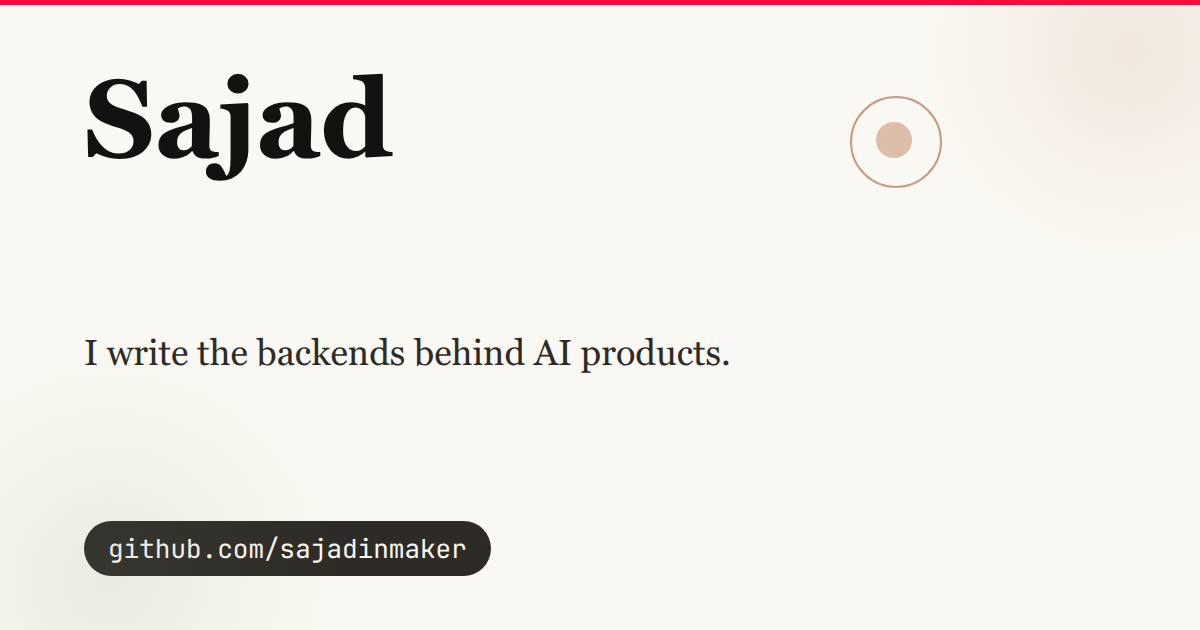
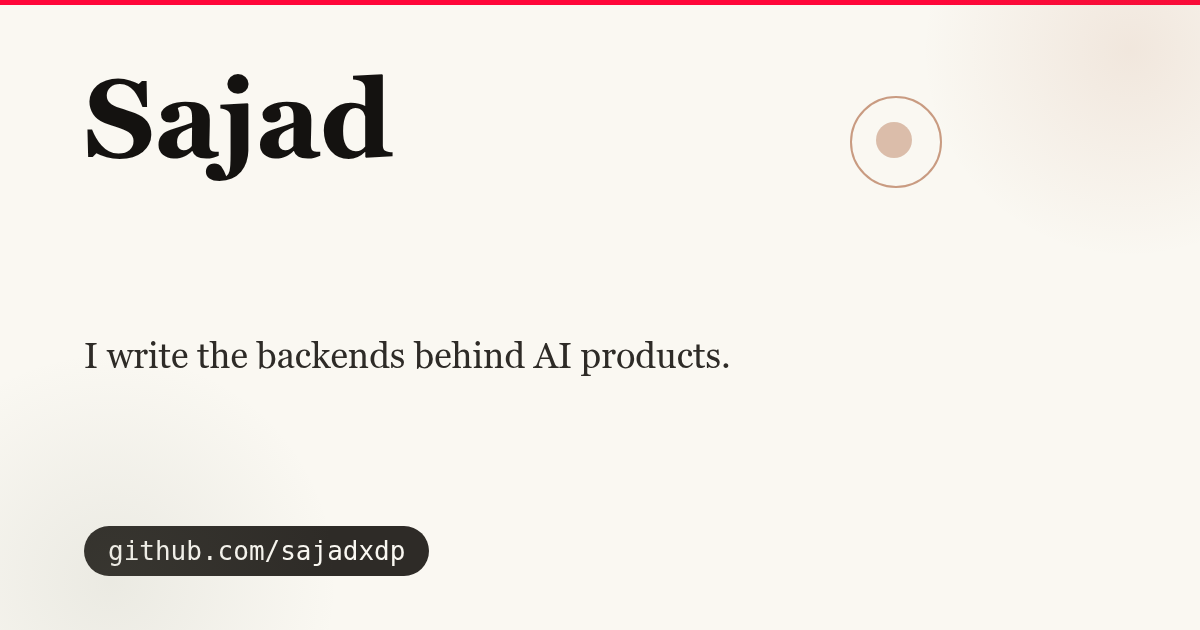
rename: github user sajadxdp - domains, links, og card

Changed region(s): [[0.0617, 0.8143, 0.4317, 0.9349], [0.0617, 0.5429, 0.6167, 0.6032], [0.2158, 0.1508, 0.2467, 0.181]]

diff --git a/index.html b/index.html
@@ -9,14 +9,14 @@
 <title>Sajad · Software Engineer</title>
 <meta name="description" content="Sajad writes the backends behind AI products. Projects, notes on engineering and applied AI, and every way to reach him.">
 <meta name="author" content="Abdulla Sajad">
-<link rel="canonical" href="https://sajadinmaker.github.io/">
+<link rel="canonical" href="https://sajadxdp.github.io/">
 <link rel="icon" href="./favicon.svg" type="image/svg+xml">
 <link rel="stylesheet" href="./style.css">
 <meta property="og:type" content="website">
 <meta property="og:site_name" content="Sajad">
 <meta property="og:title" content="Sajad · Software Engineer">
 <meta property="og:description" content="Sajad writes the backends behind AI products. Projects, notes on engineering and applied AI, and every way to reach him.">
-<meta property="og:image" content="https://sajadinmaker.github.io/og.png">
+<meta property="og:image" content="https://sajadxdp.github.io/og.png">
 <meta property="og:image:width" content="1200">
 <meta property="og:image:height" content="630">
 <meta property="og:image:alt" content="Sajad. I write the backends behind AI products.">
@@ -40,7 +40,7 @@
   <h1 class="hero">Hi, I'm Sajad.</h1>
   <p><strong>I write the backends behind AI products.</strong><br>
   The model gets the applause; I take care of what it stands on: Python, FastAPI, PostgreSQL, Redis, and the tests that keep them working. On the side I work on security and small open-source tools.</p>
-  <p><a href="https://github.com/sajadinmaker">GitHub</a> · <a href="https://www.linkedin.com/in/abdullasajad">LinkedIn</a> · <a href="mailto:abdullasajad01@gmail.com">Email</a></p>
+  <p><a href="https://github.com/sajadxdp">GitHub</a> · <a href="https://www.linkedin.com/in/abdullasajad">LinkedIn</a> · <a href="mailto:abdullasajad01@gmail.com">Email</a></p>
 
   <pre class="stack" aria-hidden="true">┌───────────────┐
 │   the model   │
@@ -57,15 +57,15 @@
   <h2>Projects</h2>
   <ul class="plain numbered">
     <li><a href="./projects/lexora.html">Lexora</a> asks questions over your own documents.
-      <span class="meta"><a href="https://github.com/sajadinmaker/lexora-ai">Source</a></span></li>
+      <span class="meta"><a href="https://github.com/sajadxdp/lexora-ai">Source</a></span></li>
     <li><a href="./projects/esencelab.html">EsenceLab</a> is an AI hiring platform.
-      <span class="meta"><a href="https://github.com/sajadinmaker/esencelab">Source</a></span></li>
-    <li><a href="https://github.com/sajadinmaker/vpnbox">vpnbox</a> is a free Linux VPN built on the volunteer-run VPN Gate relays. No accounts, no keys, one stdlib-only Python file.
-      <span class="meta">v1.0.0-beta4 · <a href="https://github.com/sajadinmaker/vpnbox">Source</a></span></li>
-    <li><a href="https://github.com/sajadinmaker/hookflow">HookFlow</a> delivers webhooks that never get lost: persist first, retry, and verify every delivery.
-      <span class="meta"><a href="https://github.com/sajadinmaker/hookflow">Source</a></span></li>
-    <li><a href="https://github.com/sajadinmaker/neudb">neuDB</a> is a tiny database in plain Python.
-      <span class="meta"><a href="https://github.com/sajadinmaker/neudb">Source</a></span></li>
+      <span class="meta"><a href="https://github.com/sajadxdp/esencelab">Source</a></span></li>
+    <li><a href="https://github.com/sajadxdp/vpnbox">vpnbox</a> is a free Linux VPN built on the volunteer-run VPN Gate relays. No accounts, no keys, one stdlib-only Python file.
+      <span class="meta">v1.0.0-beta4 · <a href="https://github.com/sajadxdp/vpnbox">Source</a></span></li>
+    <li><a href="https://github.com/sajadxdp/hookflow">HookFlow</a> delivers webhooks that never get lost: persist first, retry, and verify every delivery.
+      <span class="meta"><a href="https://github.com/sajadxdp/hookflow">Source</a></span></li>
+    <li><a href="https://github.com/sajadxdp/neudb">neuDB</a> is a tiny database in plain Python.
+      <span class="meta"><a href="https://github.com/sajadxdp/neudb">Source</a></span></li>
   </ul>
 
   <h2>Writings</h2>
@@ -78,7 +78,7 @@
 </main>
 
 <footer>
-  <p>© <span id="year">2026</span> sajad · <a href="https://github.com/sajadinmaker">github</a> · <a href="https://www.linkedin.com/in/abdullasajad">linkedin</a></p>
+  <p>© <span id="year">2026</span> sajad · <a href="https://github.com/sajadxdp">github</a> · <a href="https://www.linkedin.com/in/abdullasajad">linkedin</a></p>
 </footer>
 
 <script src="./script.js" defer></script>

diff --git a/projects.html b/projects.html
@@ -8,12 +8,12 @@
 <title>Projects · Sajad</title>
 <meta name="description" content="Projects: Lexora, EsenceLab, vpnbox, HookFlow, neuDB. Backend systems and applied AI.">
 <meta name="author" content="Abdulla Sajad">
-<link rel="canonical" href="https://sajadinmaker.github.io/projects.html">
+<link rel="canonical" href="https://sajadxdp.github.io/projects.html">
 <meta property="og:type" content="website">
 <meta property="og:site_name" content="Sajad">
 <meta property="og:title" content="Projects · Sajad">
 <meta property="og:description" content="Things I've built recently, with write-ups and source code.">
-<meta property="og:image" content="https://sajadinmaker.github.io/og.png">
+<meta property="og:image" content="https://sajadxdp.github.io/og.png">
 <meta property="og:image:width" content="1200">
 <meta property="og:image:height" content="630">
 <meta property="og:image:alt" content="Sajad. I write the backends behind AI products.">
@@ -50,7 +50,7 @@
   <li class="chip">Redis</li>
   <li class="chip">35 tests</li>
 </ul>
-<p><a href="./projects/lexora.html">Case study</a> · <a href="https://github.com/sajadinmaker/lexora-ai">Source</a></p>
+<p><a href="./projects/lexora.html">Case study</a> · <a href="https://github.com/sajadxdp/lexora-ai">Source</a></p>
 </article>
   <article>
   <h3><a href="./projects/esencelab.html">02 · EsenceLab</a></h3>
@@ -60,20 +60,20 @@
   <li class="chip">Express</li>
   <li class="chip">PostgreSQL</li>
 </ul>
-<p><a href="./projects/esencelab.html">Write-up</a> · <a href="https://github.com/sajadinmaker/esencelab">Source</a></p>
+<p><a href="./projects/esencelab.html">Write-up</a> · <a href="https://github.com/sajadxdp/esencelab">Source</a></p>
 </article>
   <article>
-  <h3><a href="https://github.com/sajadinmaker/vpnbox">03 · vpnbox</a></h3>
+  <h3><a href="https://github.com/sajadxdp/vpnbox">03 · vpnbox</a></h3>
 <p>A free VPN for Linux, no accounts and no keys. It watches the volunteer-run VPN Gate relays and ranks what's actually alive by ping and speed. You can narrow the list by country or city. It connects you through OpenVPN with a full tunnel and the DNS handled, all in one stdlib-only Python file.</p>
 <ul class="chips">
   <li class="chip">Python 3.8+ (stdlib only)</li>
   <li class="chip">OpenVPN</li>
   <li class="chip">v1.0.0-beta4</li>
 </ul>
-<p><a href="https://github.com/sajadinmaker/vpnbox">Source</a></p>
+<p><a href="https://github.com/sajadxdp/vpnbox">Source</a></p>
 </article>
   <article>
-  <h3><a href="https://github.com/sajadinmaker/hookflow">04 · HookFlow</a></h3>
+  <h3><a href="https://github.com/sajadxdp/hookflow">04 · HookFlow</a></h3>
 <p>Webhooks that never get lost. The system accepts first, persists, then delivers with atomic claims, leases, and dead-letter recovery. Concurrent workers, zero double delivery, verified by test.</p>
 <ul class="chips">
   <li class="chip">Python</li>
@@ -84,22 +84,22 @@
   <li class="chip">~93% coverage</li>
   <li class="chip">5 CI jobs</li>
 </ul>
-<p><a href="https://github.com/sajadinmaker/hookflow">Source</a></p>
+<p><a href="https://github.com/sajadxdp/hookflow">Source</a></p>
 </article>
   <article>
-  <h3><a href="https://github.com/sajadinmaker/neudb">05 · neuDB</a></h3>
+  <h3><a href="https://github.com/sajadxdp/neudb">05 · neuDB</a></h3>
 <p>A tiny database in plain Python. Writes are crash-atomic, files are human-readable, and the scope is stated plainly rather than sold.</p>
 <ul class="chips">
   <li class="chip">Python</li>
   <li class="chip">32 tests</li>
   <li class="chip">CI</li>
 </ul>
-<p><a href="https://github.com/sajadinmaker/neudb">Source</a> · <a href="https://github.com/sajadinmaker/neudb/blob/main/CHANGELOG.md">Changelog</a></p>
+<p><a href="https://github.com/sajadxdp/neudb">Source</a> · <a href="https://github.com/sajadxdp/neudb/blob/main/CHANGELOG.md">Changelog</a></p>
 </article>
   </main>
 
   <footer>
-  <p>© <span id="year">2026</span> sajad · <a href="https://github.com/sajadinmaker">github</a> · <a href="https://www.linkedin.com/in/abdullasajad">linkedin</a></p>
+  <p>© <span id="year">2026</span> sajad · <a href="https://github.com/sajadxdp">github</a> · <a href="https://www.linkedin.com/in/abdullasajad">linkedin</a></p>
 </footer>
 
 <script src="./script.js" defer></script>

diff --git a/about.html b/about.html
@@ -8,12 +8,12 @@
 <title>About · Sajad</title>
 <meta name="description" content="Sajad writes the backends behind AI products: Python, FastAPI, PostgreSQL, Redis, queues, and tests. Security and small tools on the side.">
 <meta name="author" content="Abdulla Sajad">
-<link rel="canonical" href="https://sajadinmaker.github.io/about.html">
+<link rel="canonical" href="https://sajadxdp.github.io/about.html">
 <meta property="og:type" content="website">
 <meta property="og:site_name" content="Sajad">
 <meta property="og:title" content="About · Sajad">
 <meta property="og:description" content="Sajad writes the backends behind AI products: Python, FastAPI, PostgreSQL, Redis, queues, and tests. Security and small tools on the side.">
-<meta property="og:image" content="https://sajadinmaker.github.io/og.png">
+<meta property="og:image" content="https://sajadxdp.github.io/og.png">
 <meta property="og:image:width" content="1200">
 <meta property="og:image:height" content="630">
 <meta property="og:image:alt" content="Sajad. I write the backends behind AI products.">
@@ -46,16 +46,16 @@
 <p>I like boring internals and clean interfaces. A repo should tell you what it does and then get out of the way; if it needs a sales pitch, it isn't finished.</p>
 
 <h2>On the side</h2>
-<p>I study security one topic at a time, on both the attack and defense sides, and what I learn tends to leave as a tool rather than a note. <a href="https://github.com/sajadinmaker/vpnbox">vpnbox</a>, a free Linux VPN built into a single stdlib-only Python file, started exactly that way.</p>
+<p>I study security one topic at a time, on both the attack and defense sides, and what I learn tends to leave as a tool rather than a note. <a href="https://github.com/sajadxdp/vpnbox">vpnbox</a>, a free Linux VPN built into a single stdlib-only Python file, started exactly that way.</p>
 
 <h2>Right now</h2>
-<p>The <a href="https://github.com/sajadinmaker/vpnbox">vpnbox</a> beta is out (v1.0.0-beta4), and <a href="./projects/lexora.html">Lexora</a> is next in line for hardening. Also on GitHub: <a href="https://github.com/sajadinmaker/hookflow">HookFlow</a> (webhooks that never get lost) and <a href="https://github.com/sajadinmaker/neudb">neuDB</a> (a tiny crash-atomic database).</p>
+<p>The <a href="https://github.com/sajadxdp/vpnbox">vpnbox</a> beta is out (v1.0.0-beta4), and <a href="./projects/lexora.html">Lexora</a> is next in line for hardening. Also on GitHub: <a href="https://github.com/sajadxdp/hookflow">HookFlow</a> (webhooks that never get lost) and <a href="https://github.com/sajadxdp/neudb">neuDB</a> (a tiny crash-atomic database).</p>
 
 <p>Longer notes live on the <a href="./writings.html">Writings</a> page, and <a href="./contact.html">Contact</a> has every way to reach me.</p>
   </main>
 
   <footer>
-  <p>© <span id="year">2026</span> sajad · <a href="https://github.com/sajadinmaker">github</a> · <a href="https://www.linkedin.com/in/abdullasajad">linkedin</a></p>
+  <p>© <span id="year">2026</span> sajad · <a href="https://github.com/sajadxdp">github</a> · <a href="https://www.linkedin.com/in/abdullasajad">linkedin</a></p>
 </footer>
 
 <script src="./script.js" defer></script>

diff --git a/projects/lexora.html b/projects/lexora.html
@@ -8,12 +8,12 @@
 <title>Lexora: async document and retrieval backend · Sajad</title>
 <meta name="description" content="Case study: FastAPI document processing and retrieval backend with PostgreSQL, Redis, background workers, auth, observability, and testing.">
 <meta name="author" content="Abdulla Sajad">
-<link rel="canonical" href="https://sajadinmaker.github.io/projects/lexora.html">
+<link rel="canonical" href="https://sajadxdp.github.io/projects/lexora.html">
 <meta property="og:type" content="article">
 <meta property="og:site_name" content="Sajad">
 <meta property="og:title" content="Lexora: async document and retrieval backend">
 <meta property="og:description" content="Case study: FastAPI document processing and retrieval backend with PostgreSQL, Redis, background workers, auth, observability, and testing.">
-<meta property="og:image" content="https://sajadinmaker.github.io/og.png">
+<meta property="og:image" content="https://sajadxdp.github.io/og.png">
 <meta property="og:image:width" content="1200">
 <meta property="og:image:height" content="630">
 <meta property="og:image:alt" content="Sajad. I write the backends behind AI products.">
@@ -50,7 +50,7 @@
     <li class="chip">Docker</li>
     <li class="chip">35 tests</li>
     <li class="chip">CI</li>
-    <li class="chip"><a href="https://github.com/sajadinmaker/lexora-ai">source</a></li>
+    <li class="chip"><a href="https://github.com/sajadxdp/lexora-ai">source</a></li>
   </ul>
 
   <h2>Problem</h2>
@@ -109,14 +109,14 @@ Retrieval (query embed → top-k → rank
   <p>AI is a fraction of an AI product. Auth, validation, background processing, caching, revocation, rate limits, metrics, and tests are the system; retrieval quality is one input to it. An eval probe you can run offline beats a demo you can only run on stage.</p>
 
   <h2>Source</h2>
-  <p><a href="https://github.com/sajadinmaker/lexora-ai">github.com/sajadinmaker/lexora-ai</a></p>
+  <p><a href="https://github.com/sajadxdp/lexora-ai">github.com/sajadxdp/lexora-ai</a></p>
 
   <p class="back-link"><a href="../projects.html">← projects</a></p>
 </article>
   </main>
 
   <footer>
-  <p>© <span id="year">2026</span> sajad · <a href="https://github.com/sajadinmaker">github</a> · <a href="https://www.linkedin.com/in/abdullasajad">linkedin</a></p>
+  <p>© <span id="year">2026</span> sajad · <a href="https://github.com/sajadxdp">github</a> · <a href="https://www.linkedin.com/in/abdullasajad">linkedin</a></p>
 </footer>
 
 <script src="../script.js" defer></script>

diff --git a/projects/esencelab.html b/projects/esencelab.html
@@ -8,12 +8,12 @@
 <title>EsenceLab: multi-service product backend · Sajad</title>
 <meta name="description" content="Case study: Express API with JWT and RBAC, FastAPI AI service, Next.js frontend, Supabase PostgreSQL, and splitting a 6K-line monolith.">
 <meta name="author" content="Abdulla Sajad">
-<link rel="canonical" href="https://sajadinmaker.github.io/projects/esencelab.html">
+<link rel="canonical" href="https://sajadxdp.github.io/projects/esencelab.html">
 <meta property="og:type" content="article">
 <meta property="og:site_name" content="Sajad">
 <meta property="og:title" content="EsenceLab: multi-service product backend">
 <meta property="og:description" content="Case study: Express API with JWT and RBAC, FastAPI AI service, Next.js frontend, Supabase PostgreSQL, and splitting a 6K-line monolith.">
-<meta property="og:image" content="https://sajadinmaker.github.io/og.png">
+<meta property="og:image" content="https://sajadxdp.github.io/og.png">
 <meta property="og:image:width" content="1200">
 <meta property="og:image:height" content="630">
 <meta property="og:image:alt" content="Sajad. I write the backends behind AI products.">
@@ -49,7 +49,7 @@
     <li class="chip">Docker</li>
     <li class="chip">RBAC suite</li>
     <li class="chip">CI</li>
-    <li class="chip"><a href="https://github.com/sajadinmaker/esencelab">source</a></li>
+    <li class="chip"><a href="https://github.com/sajadxdp/esencelab">source</a></li>
   </ul>
 
   <h2>Problem</h2>
@@ -100,14 +100,14 @@ AI service (FastAPI: /ai/parse-resume, /ai/match)</pre>
   <p>Product engineering is boundary work: API contracts, auth semantics, data ownership, and knowing which features to leave out of the narrative. A monolith you can split step by step beats a microservice diagram you can't deploy.</p>
 
   <h2>Source</h2>
-  <p><a href="https://github.com/sajadinmaker/esencelab">github.com/sajadinmaker/esencelab</a></p>
+  <p><a href="https://github.com/sajadxdp/esencelab">github.com/sajadxdp/esencelab</a></p>
 
   <p class="back-link"><a href="../projects.html">← projects</a></p>
 </article>
   </main>
 
   <footer>
-  <p>© <span id="year">2026</span> sajad · <a href="https://github.com/sajadinmaker">github</a> · <a href="https://www.linkedin.com/in/abdullasajad">linkedin</a></p>
+  <p>© <span id="year">2026</span> sajad · <a href="https://github.com/sajadxdp">github</a> · <a href="https://www.linkedin.com/in/abdullasajad">linkedin</a></p>
 </footer>
 
 <script src="../script.js" defer></script>

diff --git a/contact.html b/contact.html
@@ -8,12 +8,12 @@
 <title>Contact · Sajad</title>
 <meta name="description" content="How to reach Sajad. Email works best; GitHub and LinkedIn also fine.">
 <meta name="author" content="Abdulla Sajad">
-<link rel="canonical" href="https://sajadinmaker.github.io/contact.html">
+<link rel="canonical" href="https://sajadxdp.github.io/contact.html">
 <meta property="og:type" content="website">
 <meta property="og:site_name" content="Sajad">
 <meta property="og:title" content="Contact · Sajad">
 <meta property="og:description" content="How to reach Sajad. Email works best; GitHub and LinkedIn also fine.">
-<meta property="og:image" content="https://sajadinmaker.github.io/og.png">
+<meta property="og:image" content="https://sajadxdp.github.io/og.png">
 <meta property="og:image:width" content="1200">
 <meta property="og:image:height" content="630">
 <meta property="og:image:alt" content="Sajad. I write the backends behind AI products.">
@@ -42,11 +42,11 @@
 
 <p>Tell me what you're building and where it hurts. Job offers, code questions, and the occasional broken-Redis mystery are all welcome; a failing test or a demo link says more than a paragraph.</p>
 
-<p>Also on <a href="https://github.com/sajadinmaker">GitHub</a> and <a href="https://www.linkedin.com/in/abdullasajad">LinkedIn</a>.</p>
+<p>Also on <a href="https://github.com/sajadxdp">GitHub</a> and <a href="https://www.linkedin.com/in/abdullasajad">LinkedIn</a>.</p>
   </main>
 
   <footer>
-  <p>© <span id="year">2026</span> sajad · <a href="https://github.com/sajadinmaker">github</a> · <a href="https://www.linkedin.com/in/abdullasajad">linkedin</a></p>
+  <p>© <span id="year">2026</span> sajad · <a href="https://github.com/sajadxdp">github</a> · <a href="https://www.linkedin.com/in/abdullasajad">linkedin</a></p>
 </footer>
 
 <script src="./script.js" defer></script>

diff --git a/engineering.html b/engineering.html
@@ -8,12 +8,12 @@
 <title>Engineering · Sajad</title>
 <meta name="description" content="Architecture notes, correctness work, and measured numbers from things I built.">
 <meta name="author" content="Abdulla Sajad">
-<link rel="canonical" href="https://sajadinmaker.github.io/engineering.html">
+<link rel="canonical" href="https://sajadxdp.github.io/engineering.html">
 <meta property="og:type" content="website">
 <meta property="og:site_name" content="Sajad">
 <meta property="og:title" content="Engineering · Sajad">
 <meta property="og:description" content="Architecture, correctness, and measured numbers.">
-<meta property="og:image" content="https://sajadinmaker.github.io/og.png">
+<meta property="og:image" content="https://sajadxdp.github.io/og.png">
 <meta property="og:image:width" content="1200">
 <meta property="og:image:height" content="630">
 <meta property="og:image:alt" content="Sajad. I write the backends behind AI products.">
@@ -72,7 +72,7 @@ Citations</pre>
   </main>
 
   <footer>
-  <p>© <span id="year">2026</span> sajad · <a href="https://github.com/sajadinmaker">github</a> · <a href="https://www.linkedin.com/in/abdullasajad">linkedin</a></p>
+  <p>© <span id="year">2026</span> sajad · <a href="https://github.com/sajadxdp">github</a> · <a href="https://www.linkedin.com/in/abdullasajad">linkedin</a></p>
 </footer>
 
 <script src="./script.js" defer></script>

diff --git a/writings.html b/writings.html
@@ -8,12 +8,12 @@
 <title>Writings · Sajad</title>
 <meta name="description" content="Sajad's notes: engineering mechanisms and applied AI, plain text on purpose.">
 <meta name="author" content="Abdulla Sajad">
-<link rel="canonical" href="https://sajadinmaker.github.io/writings.html">
+<link rel="canonical" href="https://sajadxdp.github.io/writings.html">
 <meta property="og:type" content="website">
 <meta property="og:site_name" content="Sajad">
 <meta property="og:title" content="Writings · Sajad">
 <meta property="og:description" content="Sajad's notes: engineering mechanisms and applied AI, plain text on purpose.">
-<meta property="og:image" content="https://sajadinmaker.github.io/og.png">
+<meta property="og:image" content="https://sajadxdp.github.io/og.png">
 <meta property="og:image:width" content="1200">
 <meta property="og:image:height" content="630">
 <meta property="og:image:alt" content="Sajad. I write the backends behind AI products.">
@@ -51,7 +51,7 @@
   </main>
 
   <footer>
-  <p>© <span id="year">2026</span> sajad · <a href="https://github.com/sajadinmaker">github</a> · <a href="https://www.linkedin.com/in/abdullasajad">linkedin</a></p>
+  <p>© <span id="year">2026</span> sajad · <a href="https://github.com/sajadxdp">github</a> · <a href="https://www.linkedin.com/in/abdullasajad">linkedin</a></p>
 </footer>
 
 <script src="./script.js" defer></script>

diff --git a/ai.html b/ai.html
@@ -8,12 +8,12 @@
 <title>AI · Sajad</title>
 <meta name="description" content="Applied AI: what I ship now and what's next.">
 <meta name="author" content="Abdulla Sajad">
-<link rel="canonical" href="https://sajadinmaker.github.io/ai.html">
+<link rel="canonical" href="https://sajadxdp.github.io/ai.html">
 <meta property="og:type" content="website">
 <meta property="og:site_name" content="Sajad">
 <meta property="og:title" content="AI · Sajad">
 <meta property="og:description" content="Applied AI: current work and direction.">
-<meta property="og:image" content="https://sajadinmaker.github.io/og.png">
+<meta property="og:image" content="https://sajadxdp.github.io/og.png">
 <meta property="og:image:width" content="1200">
 <meta property="og:image:height" content="630">
 <meta property="og:image:alt" content="Sajad. I write the backends behind AI products.">
@@ -55,7 +55,7 @@
   </main>
 
   <footer>
-  <p>© <span id="year">2026</span> sajad · <a href="https://github.com/sajadinmaker">github</a> · <a href="https://www.linkedin.com/in/abdullasajad">linkedin</a></p>
+  <p>© <span id="year">2026</span> sajad · <a href="https://github.com/sajadxdp">github</a> · <a href="https://www.linkedin.com/in/abdullasajad">linkedin</a></p>
 </footer>
 
 <script src="./script.js" defer></script>

diff --git a/404.html b/404.html
@@ -12,7 +12,7 @@
 <meta property="og:site_name" content="Sajad">
 <meta property="og:title" content="Page not found · Sajad">
 <meta property="og:description" content="Page not found.">
-<meta property="og:image" content="https://sajadinmaker.github.io/og.png">
+<meta property="og:image" content="https://sajadxdp.github.io/og.png">
 <meta property="og:image:width" content="1200">
 <meta property="og:image:height" content="630">
 <meta property="og:image:alt" content="Sajad. I write the backends behind AI products.">
@@ -42,7 +42,7 @@
   </main>
 
   <footer>
-  <p>© <span id="year">2026</span> sajad · <a href="https://github.com/sajadinmaker">github</a> · <a href="https://www.linkedin.com/in/abdullasajad">linkedin</a></p>
+  <p>© <span id="year">2026</span> sajad · <a href="https://github.com/sajadxdp">github</a> · <a href="https://www.linkedin.com/in/abdullasajad">linkedin</a></p>
 </footer>
 
 <script src="./script.js" defer></script>

diff --git a/docs/PRODUCT.md b/docs/PRODUCT.md
@@ -1,7 +1,7 @@
 # Portfolio Site
 
-> Maintainer doc. Static site, hosted by GitHub Pages at sajadinmaker.github.io.
-> Codebase: `~/sajadinmaker.github.io` | Stack: vanilla HTML + CSS + JS, no build.
+> Maintainer doc. Static site, hosted by GitHub Pages at sajadxdp.github.io.
+> Codebase: `~/sajadxdp.github.io` | Stack: vanilla HTML + CSS + JS, no build.
 
 ## 1. What this product is
 
@@ -24,7 +24,7 @@ No templating: header/nav/footer duplicated per file (drift risk, see roadmap).
 
 ### Serve locally
 ```bash
-python3 -m http.server -d ~/sajadinmaker.github.io 8000
+python3 -m http.server -d ~/sajadxdp.github.io 8000
 # → http://localhost:8000
 ```
 
